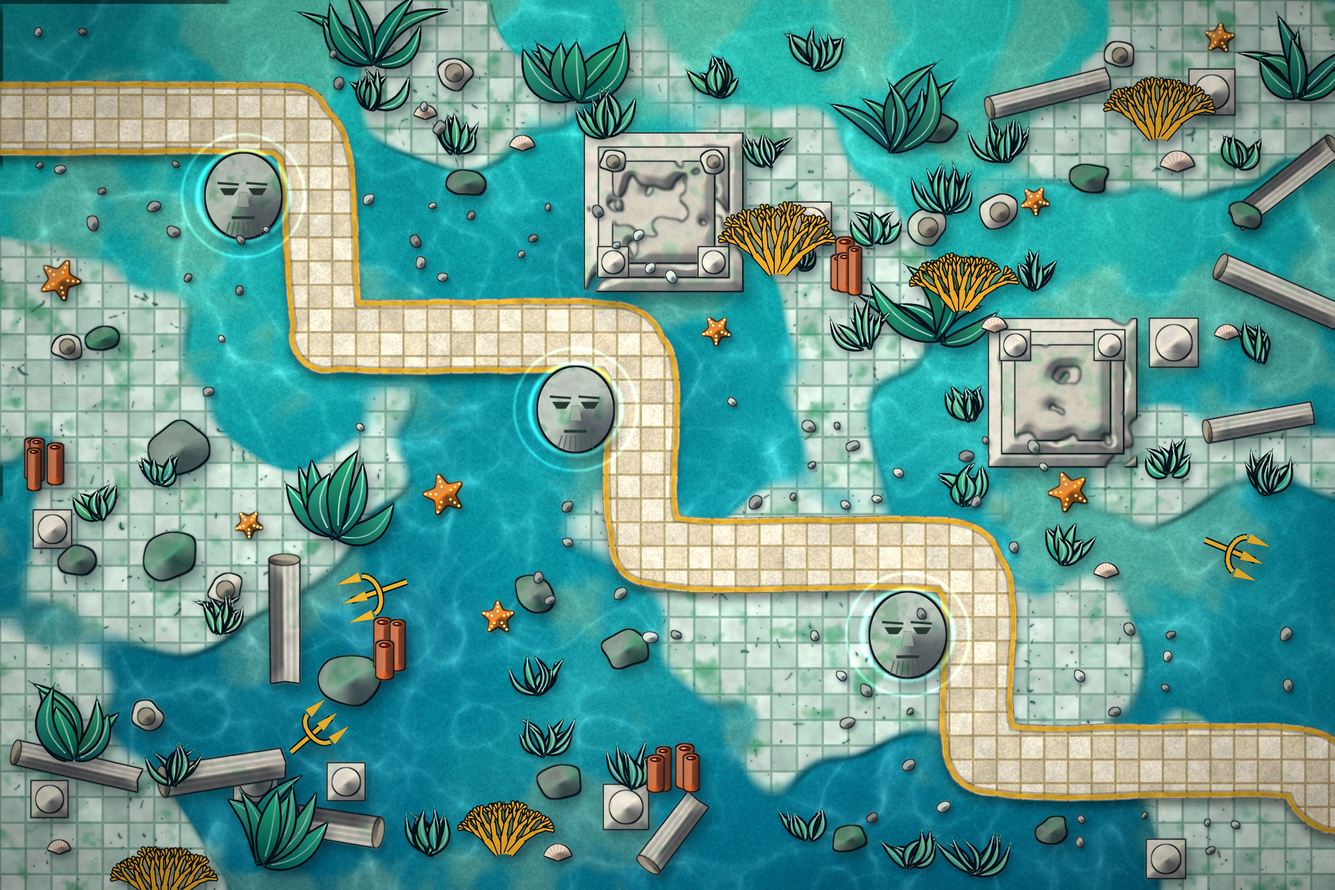
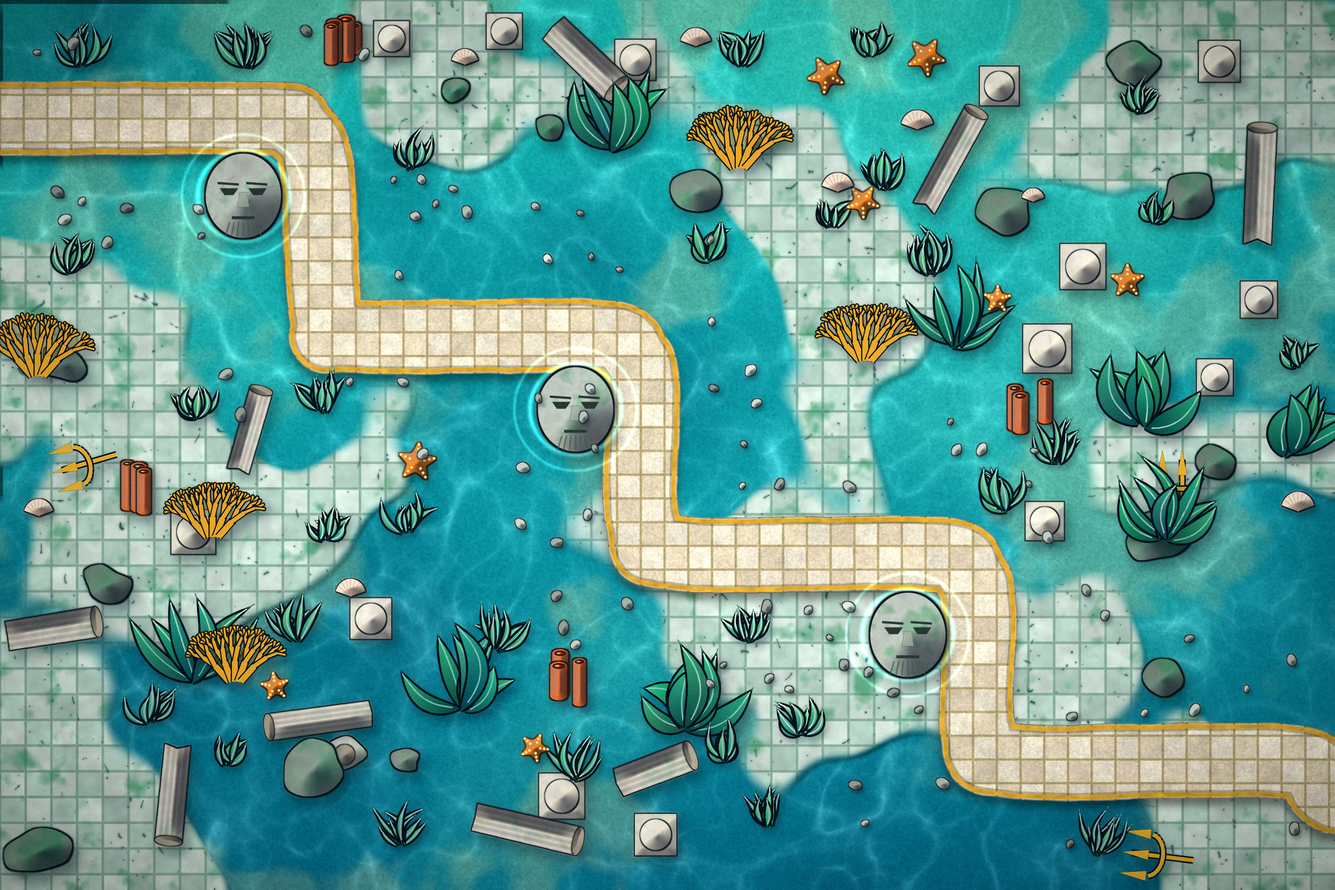
atlantis arka planindan bloklar kaldirildi

diff --git a/tools/mapgen/atlantis.py b/tools/mapgen/atlantis.py
@@ -95,11 +95,7 @@ def build(out_path):
     ew = PL.edge_weights(1.0, 0.25)
     sh_ = (5, 8, 6, 0.38, (0.0, 0.1, 0.12))
 
-    for _ in range(2):
-        p = C.scatter_points(rng, 1, avoid | wide, 150, weights=ew)
-        if p:
-            sc.stamp(AT.temple_base(rng, rng.uniform(130, 160)), p[0][0], p[0][1], shadow=(8, 12, 8, 0.4, (0, 0.1, 0.12)))
-            PL.disk(avoid, p[0][0], p[0][1], 100)
+    # (yüz kabartmalı iki kare tapınak tabanı kaldırıldı: koruyucu başlarla karışıyordu)
     # koruyucu başlar: oyunda periyodik olarak düşmanlara vurur, altlarında soluk bir rün çemberi var
     for gx, gy in S.ATLANTIS_GUARDIANS:
         d = np.sqrt((xx - gx) ** 2 + (yy - gy) ** 2)
